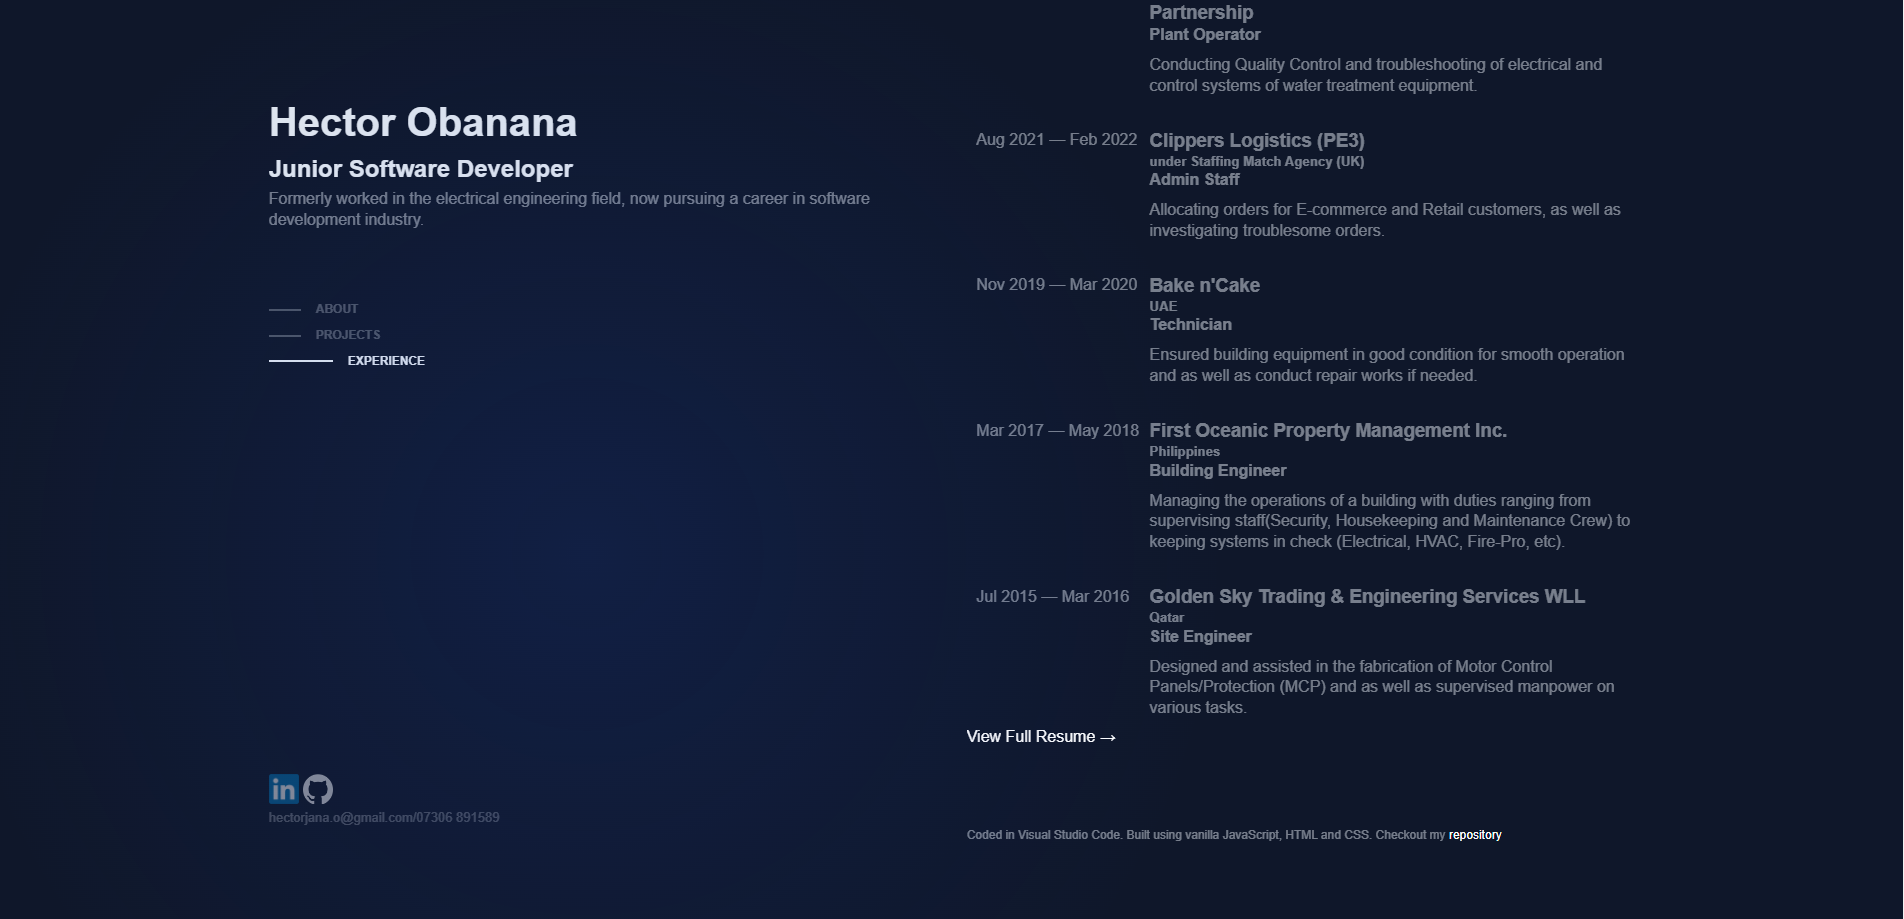
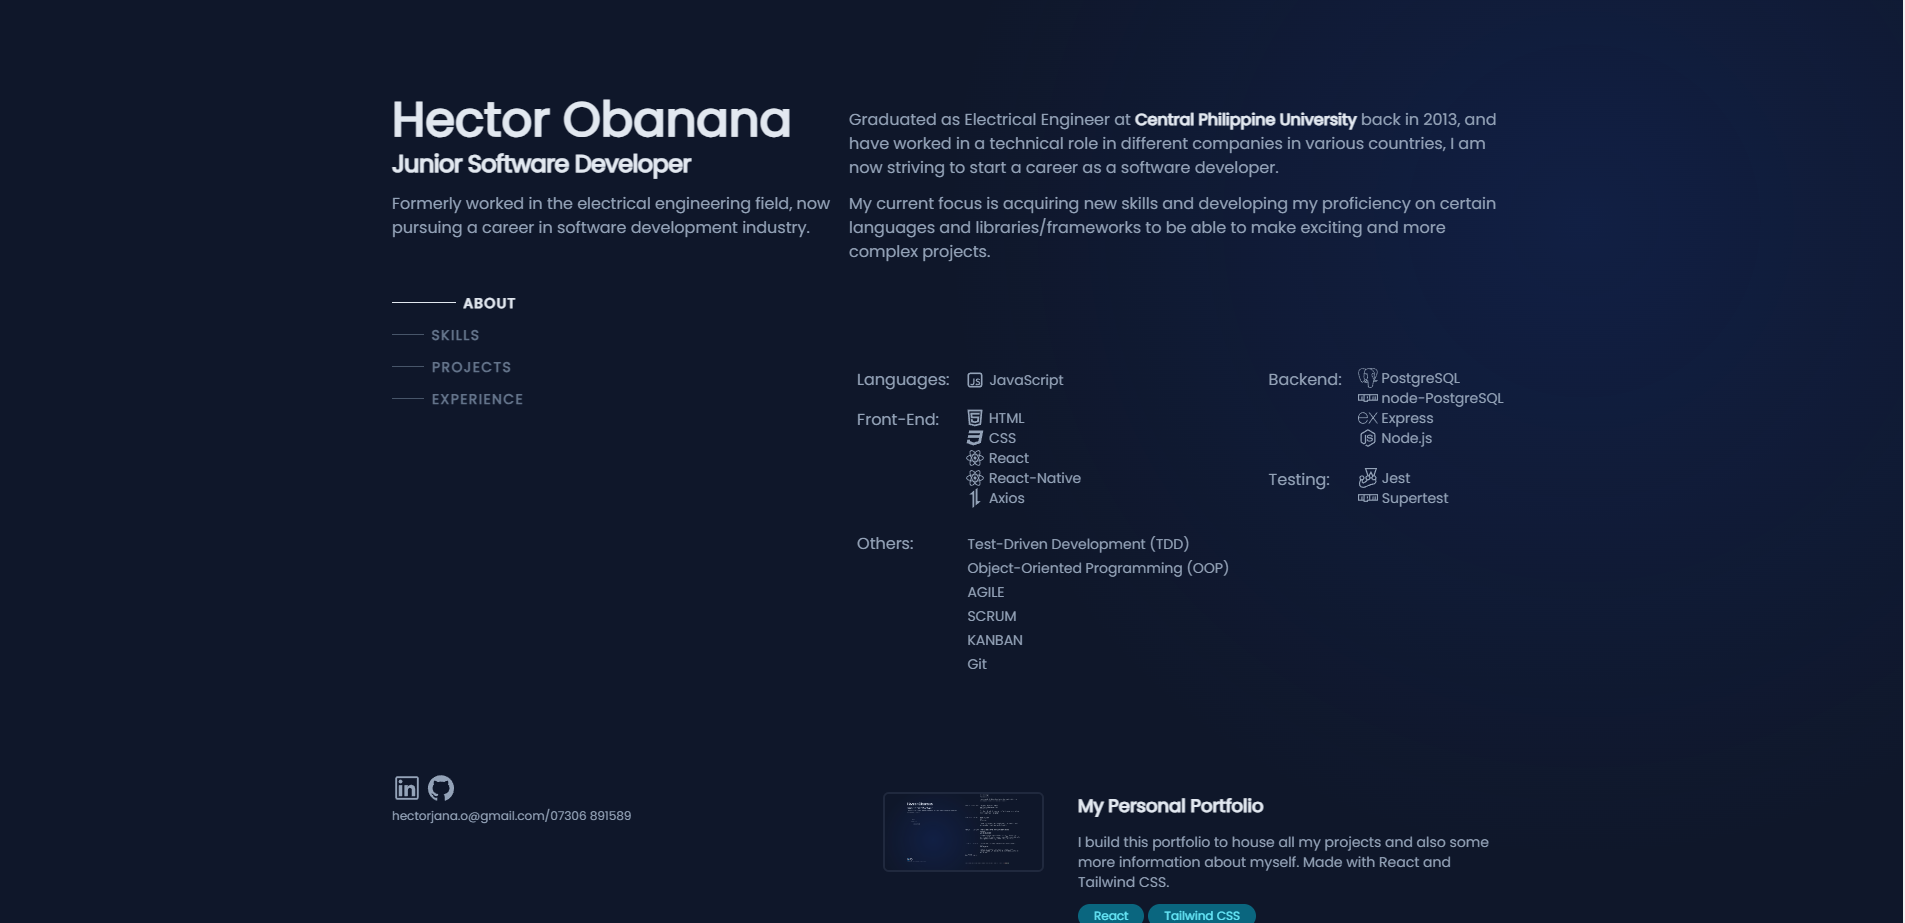
done and ready to deploy

diff --git a/src/components/LeftContainer/components/Nav.jsx b/src/components/LeftContainer/components/Nav.jsx
@@ -1,18 +1,86 @@
+import { useEffect } from "react";
+
 export default function Nav() {
     const navBar = ['about', 'skills', 'projects', 'experience'];
+
+    useEffect(() => {
+        const aboutEle = document.getElementById('about');
+        const skillsEle = document.getElementById('skills');
+        const projectsEle = document.getElementById('projects');
+        const experienceEle = document.getElementById('experience');
+
+        const aboutNavBar = document.getElementById('nav-bar-about');
+        const skillsNavBar = document.getElementById('nav-bar-skills');
+        const projectsNavBar = document.getElementById('nav-bar-projects');
+        const experienceNavBar = document.getElementById('nav-bar-experience');
+
+        const aboutNavText = document.getElementById('nav-text-about');
+        const skillsNavText = document.getElementById('nav-text-skills');
+        const projectsNavText = document.getElementById('nav-text-projects');
+        const experienceNavText = document.getElementById('nav-text-experience');
+
+        scrollEvent(null);
+        
+        window.addEventListener("scroll", event => {
+            const aboutEleTop = aboutEle.getBoundingClientRect().top;
+            const skillsEleTop = skillsEle.getBoundingClientRect().top;
+            const projectsEleTop = projectsEle.getBoundingClientRect().top;
+            const experienceEleTop = experienceEle.getBoundingClientRect().top;
+            scrollEvent(aboutEleTop, skillsEleTop, projectsEleTop, experienceEleTop)
+        })
+
+        function scrollEvent(aboutEleTop, skillsEleTop, projectsEleTop, experienceEleTop) {
+
+            skillsEleTop > 96 && aboutEleTop <= 96 || aboutEleTop === null
+            ? navActive(aboutNavBar, aboutNavText)
+            : navInactive(aboutNavBar, aboutNavText)
+
+            projectsEleTop > 96 && skillsEleTop <= 96
+            ? navActive(skillsNavBar, skillsNavText)
+            : navInactive(skillsNavBar, skillsNavText)
+
+            experienceEleTop > 96 && projectsEleTop <= 96
+            ? navActive(projectsNavBar, projectsNavText)
+            : navInactive(projectsNavBar, projectsNavText)
+
+            experienceEleTop <= 96
+            ? navActive(experienceNavBar, experienceNavText)
+            : navInactive(experienceNavBar, experienceNavText)
+
+            function navActive(navBar, navText) {
+                navBar.classList.add('w-16'),
+                navBar.classList.add('bg-slate-200'),
+                navBar.classList.remove('w-8'),
+                navBar.classList.remove('bg-slate-600'),
+                navText.classList.add('text-slate-200'),
+                navText.classList.remove('text-slate-500')
+                
+            }
+
+            function navInactive(navBar, navText) {
+                navBar.classList.add('w-8'),
+                navBar.classList.add('bg-slate-600'),
+                navBar.classList.remove('w-16'),
+                navBar.classList.remove('bg-slate-200'),
+                navText.classList.add('text-slate-500'),
+                navText.classList.remove('text-slate-200')
+            }         
+        }
+        
+    },[])
     return (
         <section>
-            <ol className="flex flex-col gap-3 pb-80">
+            <ol className="hidden lg:flex flex-col gap-3 pb-80 mt-10">
                 {
                     navBar.map((item, i) => {
                         return (
                             <li key={i}>
                                 <a href={`#${item}`} className="group flex items-center w-fit">
-                                    <span className="bg-slate-600 h-px my-auto mr-2 w-8 group-hover:bg-slate-200 
+                                    <span id={`nav-bar-${item}`} className="bg-slate-600 h-px my-auto mr-2 w-8 group-hover:bg-slate-200 
                                     transition-all
                                     group-hover:w-16
                                     group-focus-visible:w-16 group-focus-visible:bg-slate-200 motion-reduce:transition-none"></span>
-                                    <span className="text-sm font-bold tracking-widest uppercase text-slate-500 group-hover:text-slate-200
+                                    <span id={`nav-text-${item}`} className="text-sm font-bold tracking-widest uppercase text-slate-500 group-hover:text-slate-200
                                     group-focus:text-slate-200">{item}</span>
                                 </a>
                             </li>

diff --git a/src/components/RightContainer/components/AboutMe.jsx b/src/components/RightContainer/components/AboutMe.jsx
@@ -1,9 +1,9 @@
 export default function AboutMe() {
     return (
         <section id="about" className="scroll-mt-24">
-            <h3 className="text-xl text-slate-200 font-bold">About</h3>
+            <h3 className="text-xl text-slate-200 font-bold lg:hidden">About</h3>
             <p className="mb-3 mt-3">
-            Graduated as Electrical Engineer at Central Philippine University back in 2013, and have worked in a technical role in different companies in various countries, I am now striving to start a career as a software developer.
+            Graduated as Electrical Engineer at <a className="text-slate-200 hover:text-cyan-500 duration-500 font-bold" target="_blank" href="https://cpu.edu.ph/">Central Philippine University</a> back in 2013, and have worked in a technical role in different companies in various countries, I am now striving to start a career as a software developer.
             </p>
             <p>
             My current focus is acquiring new skills and developing my proficiency on certain languages and libraries/frameworks to be able to make exciting and more complex projects.

diff --git a/src/App.jsx b/src/App.jsx
@@ -10,17 +10,15 @@ function App() {
     mainEle.addEventListener("mousemove", event => {
       let xLoc = event.clientX;
       let yLoc  = event.clientY;
-      console.log(xLoc, yLoc);
       flashlight.style.setProperty("--x", `${xLoc}px`);
       flashlight.style.setProperty("--y", `${yLoc}px`);
-      
     })
   },[])
 
   return (
     <> 
     <div id="flashlight" className="fixed inset-0" style={{background:`radial-gradient(800px circle at var(--x) var(--y), rgba(29, 78, 216, 0.15), transparent 80%)`}}></div>
-    <main id="main" className="lg:flex lg:justify-between lg:px-10 lg:gap-4  mx-auto max-w-screen-xl relative font-poppins">
+    <main id="main" className="lg:flex lg:justify-between px-5 md:px-10 lg:px-20 lg:gap-4  mx-auto max-w-screen-xl relative font-poppins">
       <LeftContainer />
       <RightContainer />
     </main>

diff --git a/src/components/RightContainer/components/WorkExperience.jsx b/src/components/RightContainer/components/WorkExperience.jsx
@@ -68,7 +68,7 @@ export default function WorkExperience() {
 
   return (
     <section id="experience" className="scroll-mt-24">
-      <h3 className="text-xl text-slate-200 font-bold">Experience</h3>
+      <h3 className="text-xl text-slate-200 font-bold lg:hidden">Experience</h3>
       <ul className="p-3 flex flex-col-reverse gap-2 group">{handleWorkExperieneData(workExperience)}</ul>
       <a href="./media/resume.pdf" target="_blank" className="flex flex-col w-fit group">
         <span className="text-slate-200 group-hover:text-cyan-500 flex gap-1">

diff --git a/index.html b/index.html
@@ -6,8 +6,8 @@
     <meta name="viewport" content="width=device-width, initial-scale=1.0" />
     <title>Hector's Portfolio</title>
   </head>
-  <body id="body" class="bg-slate-900 flex justify-center text-slate-400 antialiased">
-    <div id="root" class="w-full h-full relative">
+  <body id="body" class="bg-slate-900 flex justify-center text-slate-400 antialiased ">
+    <div id="root" class="w-full h-full relative ">
     </div>
     <script type="module" src="/src/main.jsx"></script>
   </body>

diff --git a/src/components/RightContainer/components/Skills.jsx b/src/components/RightContainer/components/Skills.jsx
@@ -72,7 +72,7 @@ export function Skills() {
 
   return (
     <section id="skills" className="scroll-mt-24 flex flex-col gap-2">
-      <h3 className="text-xl text-slate-200 font-bold">Technical Skills</h3>
+      <h3 className="text-xl text-slate-200 font-bold lg:hidden">Technical Skills</h3>
       <div className="flex justify-between">
         <div>
           <section className="flex gap-4 group

diff --git a/src/components/RightContainer/components/Projects.jsx b/src/components/RightContainer/components/Projects.jsx
@@ -127,7 +127,7 @@ export default function Projects() {
 
   return (
     <section id="projects" className="scroll-mt-24 flex flex-col gap-2">
-      <h3 className="text-xl text-slate-200 font-bold">Projects</h3>
+      <h3 className="text-xl text-slate-200 font-bold lg:hidden">Projects</h3>
       <ul className="flex flex-col-reverse gap-1 group">{handleList(projects)}</ul>
     </section>
   );

diff --git a/src/components/LeftContainer/LeftContainer.jsx b/src/components/LeftContainer/LeftContainer.jsx
@@ -4,7 +4,7 @@ import Socials from "./components/Socials";
 
 export default function LeftContainer() {
     return (
-        <section className="lg:w-1/2 py-24 flex flex-col justify-between sticky top-0 max-h-screen">
+        <section className="lg:w-2/5 py-24 flex flex-col justify-between lg:sticky top-0 max-h-screen">
             <Header/>
             <Nav/>
             <Socials/>

diff --git a/src/components/RightContainer/RightContainer.jsx b/src/components/RightContainer/RightContainer.jsx
@@ -6,7 +6,7 @@ import WorkExperience from "./components/WorkExperience"
 
 export default function RightContainer() {
     return (
-        <section className="lg:w-1/2 py-24 flex flex-col gap-24">
+        <section id="right" className="lg:w-3/5 py-24 flex flex-col gap-24 scroll-smooth">
             <AboutMe/>
             <Skills/>
             <Projects/>

diff --git a/src/components/LeftContainer/components/Socials.jsx b/src/components/LeftContainer/components/Socials.jsx
@@ -3,7 +3,7 @@ import { socials } from "../../../../data/socials";
 export default function Socials() {
     return (
         <section>
-            <div  className="flex gap-1">
+            <div  className="flex gap-1 mt-8">
                 {
                     Object.entries(socials).map(([social, info], i) => {
                         return (
